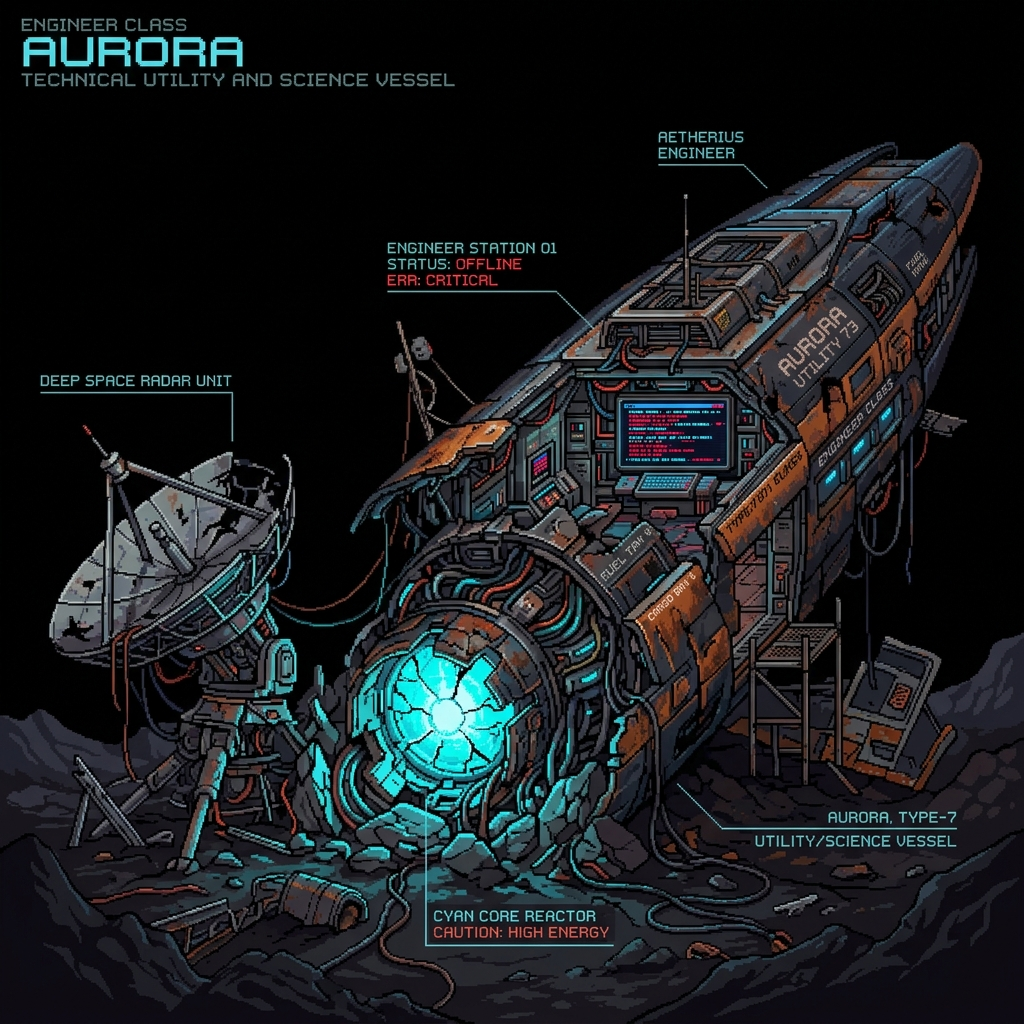
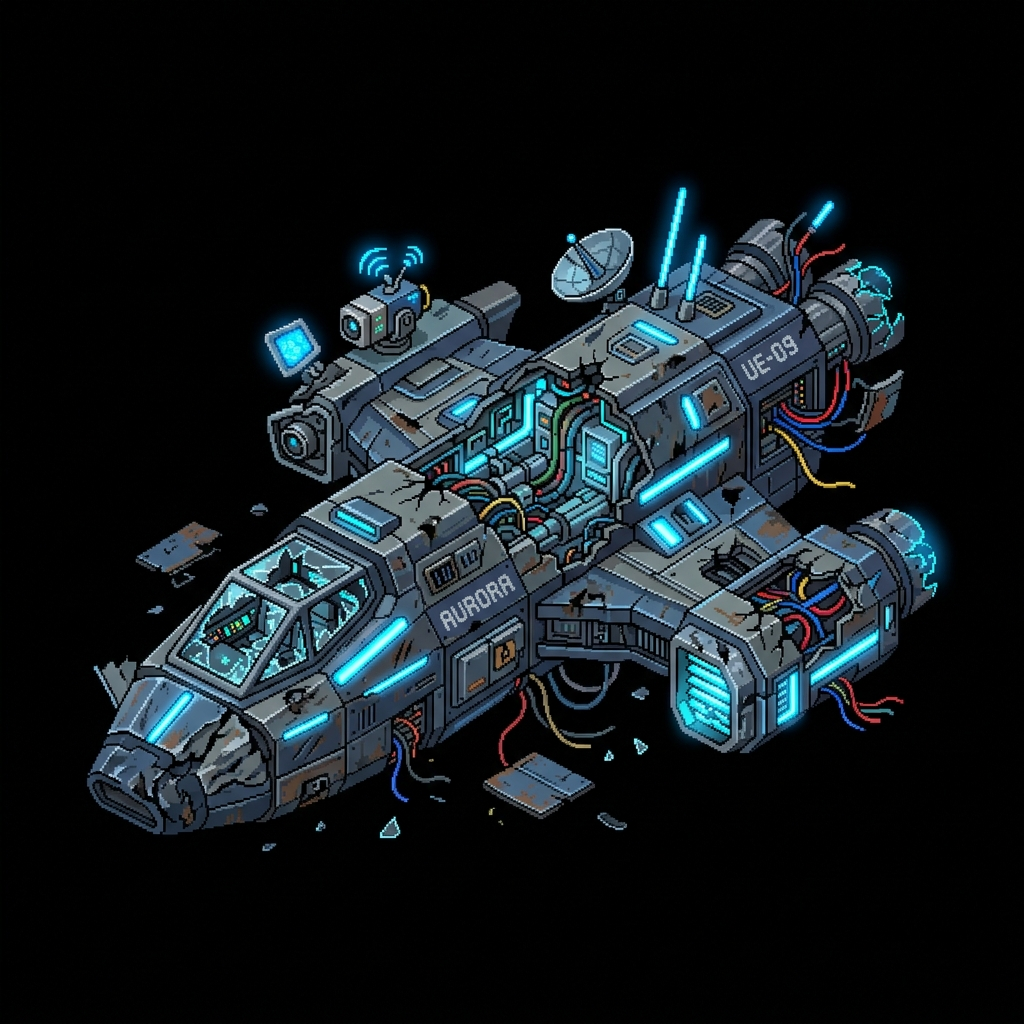
feat: redraw clean spaceship wreckage sprites and implement chroma-key transparency loading

diff --git a/src/threeGame.js b/src/threeGame.js
@@ -575,17 +575,11 @@ export class ThreeGame {
     }
 
     setupCrashedShips() {
-        const textureLoader = new THREE.TextureLoader();
-        const scoutShipTex = textureLoader.load('/scout_ship.png');
-        const tankShipTex = textureLoader.load('/tank_ship.png');
-        const engineerShipTex = textureLoader.load('/engineer_ship.png');
-        const consoleTex = textureLoader.load('/console.png');
-
-        [scoutShipTex, tankShipTex, engineerShipTex, consoleTex].forEach((tex) => {
-            tex.colorSpace = THREE.SRGBColorSpace;
-            tex.minFilter = THREE.LinearFilter;
-            tex.magFilter = THREE.LinearFilter;
-        });
+        // Load textures using our high-fidelity chroma-key transparency shader to strip black backgrounds perfectly!
+        const scoutShipTex = this.loadKeyedSpriteTexture('/scout_ship.png', 10);
+        const tankShipTex = this.loadKeyedSpriteTexture('/tank_ship.png', 10);
+        const engineerShipTex = this.loadKeyedSpriteTexture('/engineer_ship.png', 10);
+        const consoleTex = this.loadKeyedSpriteTexture('/console.png', 10);
 
         // Placements relative to spawn (which is 9, 9 in starting chunk)
         this.crashedShips = [
